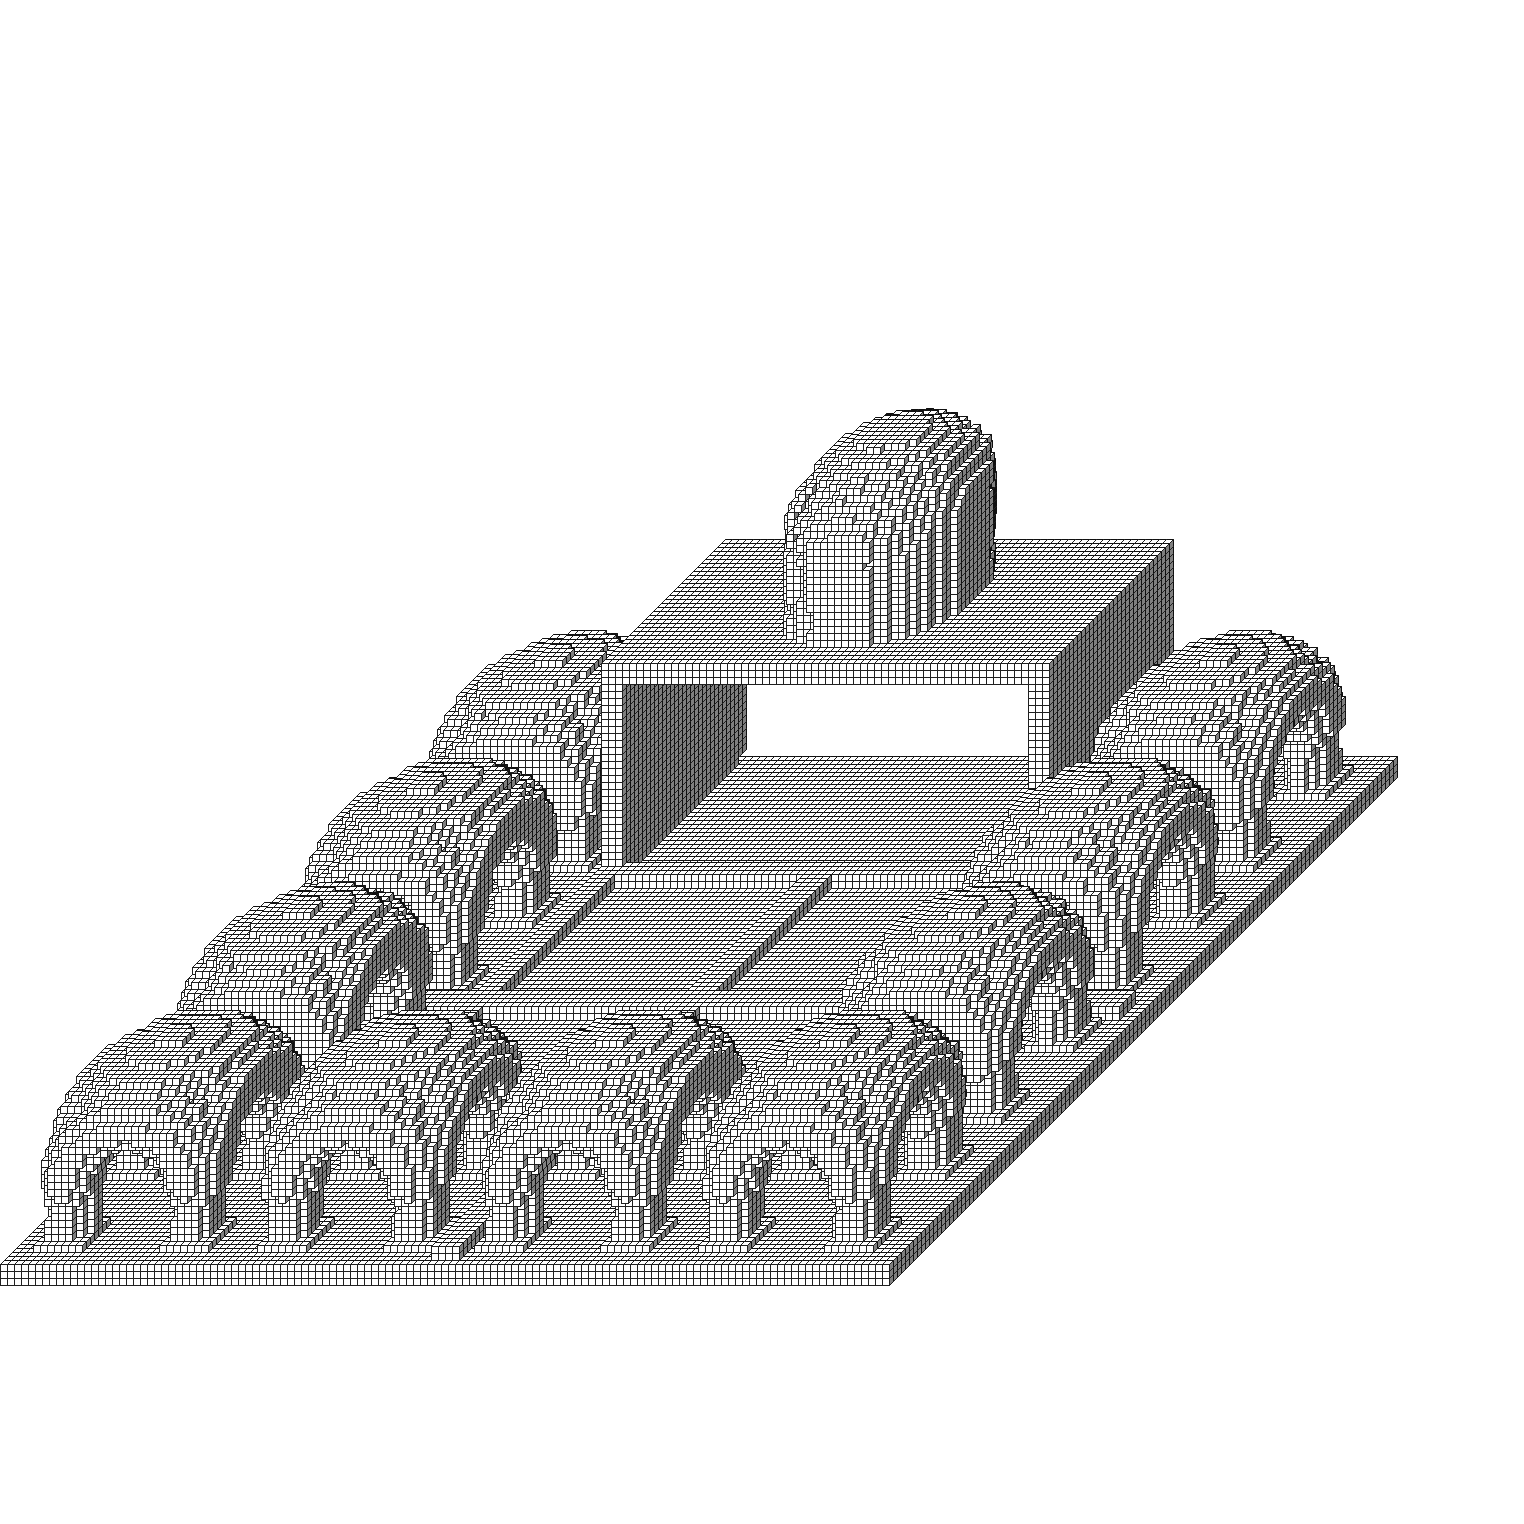
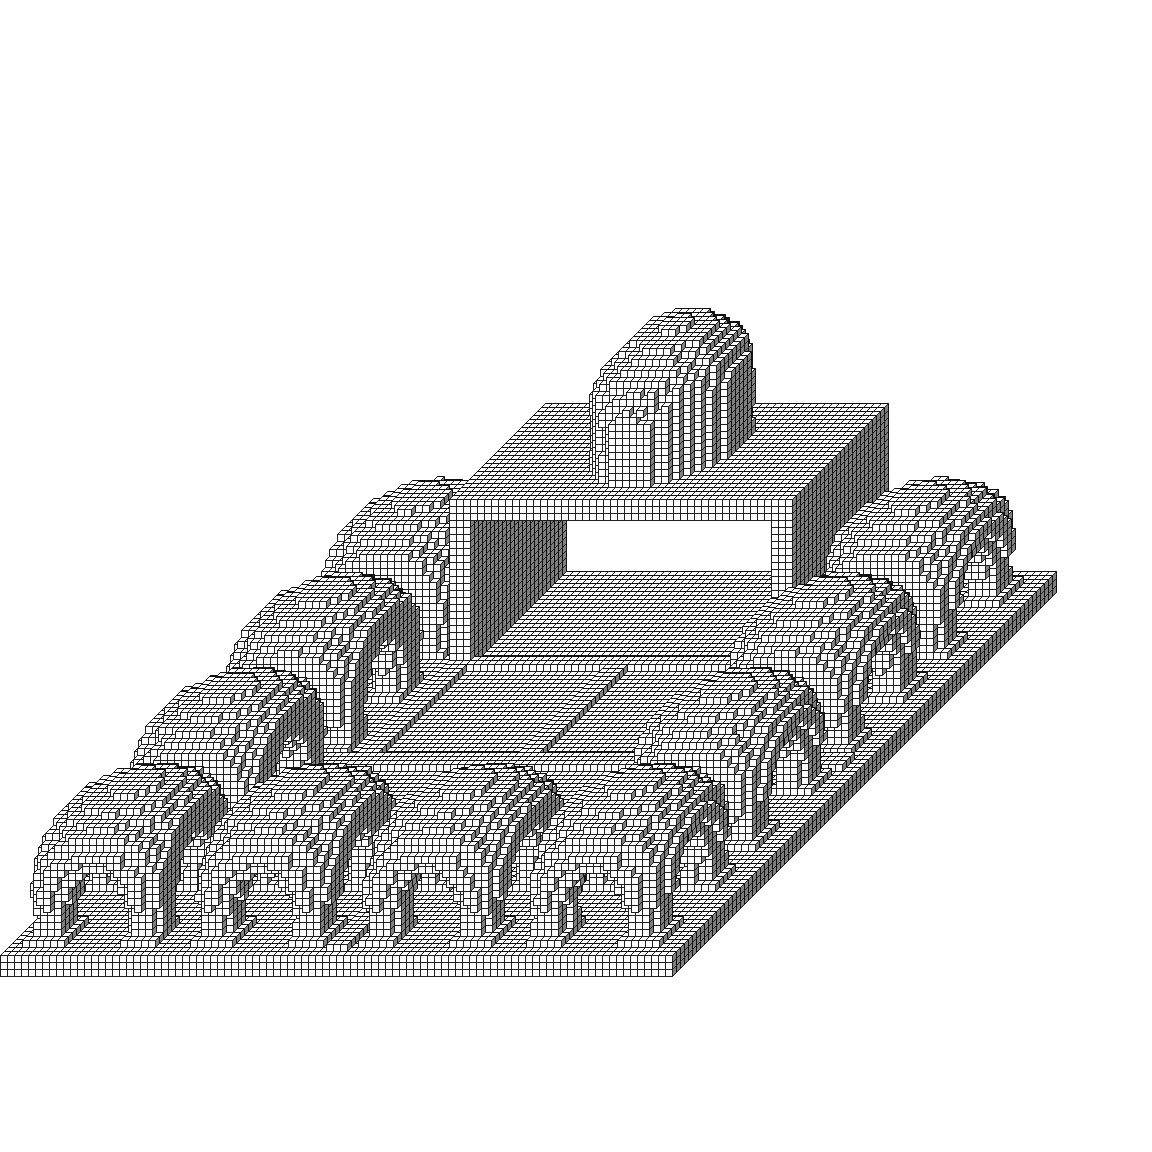
Updates to previewing for Examples of Nexus

Changed region(s): [[0.0, 0.25, 0.9375, 0.8438]]

diff --git a/Glyphics/Examples/ExampleCodeToPNG/ExampleCodeToPNG.cs b/Glyphics/Examples/ExampleCodeToPNG/ExampleCodeToPNG.cs
@@ -29,7 +29,7 @@ namespace ExampleCodeToPNG
         static void Main()
         {
             //Glyphics code string
-            /*const string code2 = @"PrintableNexus,Size3D4 64 64 64;Spawn 25 5 25;PenColorD4 31 127 255 255;
+            const string code2 = @"PrintableNexus,Size3D4 64 64 64;Spawn 25 5 25;PenColorD4 31 127 255 255;
             PenShape 1;WallCube 1;PenColorD4 255 255 255 255;
 PenSize 1 2 1;Rect 0 0 0 31 0 31;Rect 0 0 32 31 0 63;Rect 32 0 0 63 0 31;Rect 32 0 32 63 0 63;Rect 16 0 16 48 0 48;
 PenSize 1 1 1;PenColorD4 31 127 255 255;FillRect 17 0 17 47 0 47;FillRect 16 1 49 48 16 63;
@@ -45,7 +45,7 @@ PenColorD3 255 255 127;FillRect 2 1 50 13 12 61;
 
 PenColorD3 255 127 255;FillRect 18 1 2 29 12 13;
 ImgMirrorX
-";*/
+";
             const string code = "Ascent,Size3D4 64 64 64;Spawn 6 3 5;PenColorD3 31 127 255;WallCube 1;ImgEdge 255 255 255 255;PenColorD3 127 192 127;ExtrudeZ 33 36 35 48 6 6 6 0;ExtrudeY 34 1 31 31 6 6 6 0;PenColorD3 127 127 192;FillRect 24 31 24 36 31 36;PenColorD3 192 127 192;PenSize 5 1 2;Line 25 1 3 25 23 40;Line 4 31 11 15 51 48;Line 15 51 11 26 58 51;Line 31 23 36 31 23 191;Line 25 23 40 25 23 55;Line 19 20 58 20 31 27;PenColorD3 192 127 127;PenSize 1 1 7;Line 32 31 51 57 31 51;Line 11 51 52 63 51 52;Line 0 31 7 58 31 7;PenSize 7 1 1;Line 55 31 11 55 31 51;PenColorD3 192 192 127;PenSize 1 1 1;ExtrudeZ 60 56 10 51 6 9 6 0;PenColorD3 31 127 255;FillRect 11 51 0 63 51 10;PenColorD3 127 192 127;PenColorD3 127 192 192;PenSize 7 1 3;Line 26 58 53 68 58 59;Line 61 60 51 61 57 57;PenSize 1 1 7;PenColorD3 192 127 192;PenSize 1 1 1;PenColorD4 127 127 192 255;FillRect 50 1 50 61 13 61;PenColorD4 0 0 0 0;FillRect 55 1 49 57 7 59;FillRect 51 1 51 60 12 60;PenColorD4 127 127 192 63;FillRect 50 4 54 50 7 58;PenColorD4 255 0 0 255;PenSize 3 1 3;Plot 60 1 2";
 
             // divisions

diff --git a/Glyphics/Examples/ExampleCodeToSTL/ExampleCodeToSTL.cs b/Glyphics/Examples/ExampleCodeToSTL/ExampleCodeToSTL.cs
@@ -102,12 +102,14 @@ ImgMirrorX
             Console.WriteLine("Saving triangles to {0}", outputFilename);
             GlyphicsApi.SaveTrianglesToStl(outputFilename, triangles);
 
+            //So.. as long as we are here.. let's make a preview
+
             //Since we can, normalize it now
             triangles.ReduceToUnit();
-            
+
             //Save a rendering out to a PNG, why not, too.
             Console.WriteLine("Creating preview grid");
-            IGrid gridFromSTL = GlyphicsApi.CreateGrid(127,127,127, 4);
+            IGrid gridFromSTL = GlyphicsApi.CreateGrid(96,96,96, 4);
 
             Console.WriteLine("Rendering triangles to grid");
             GlyphicsApi.Renderer.RenderTrianglesToGrid(triangles, gridFromSTL);
